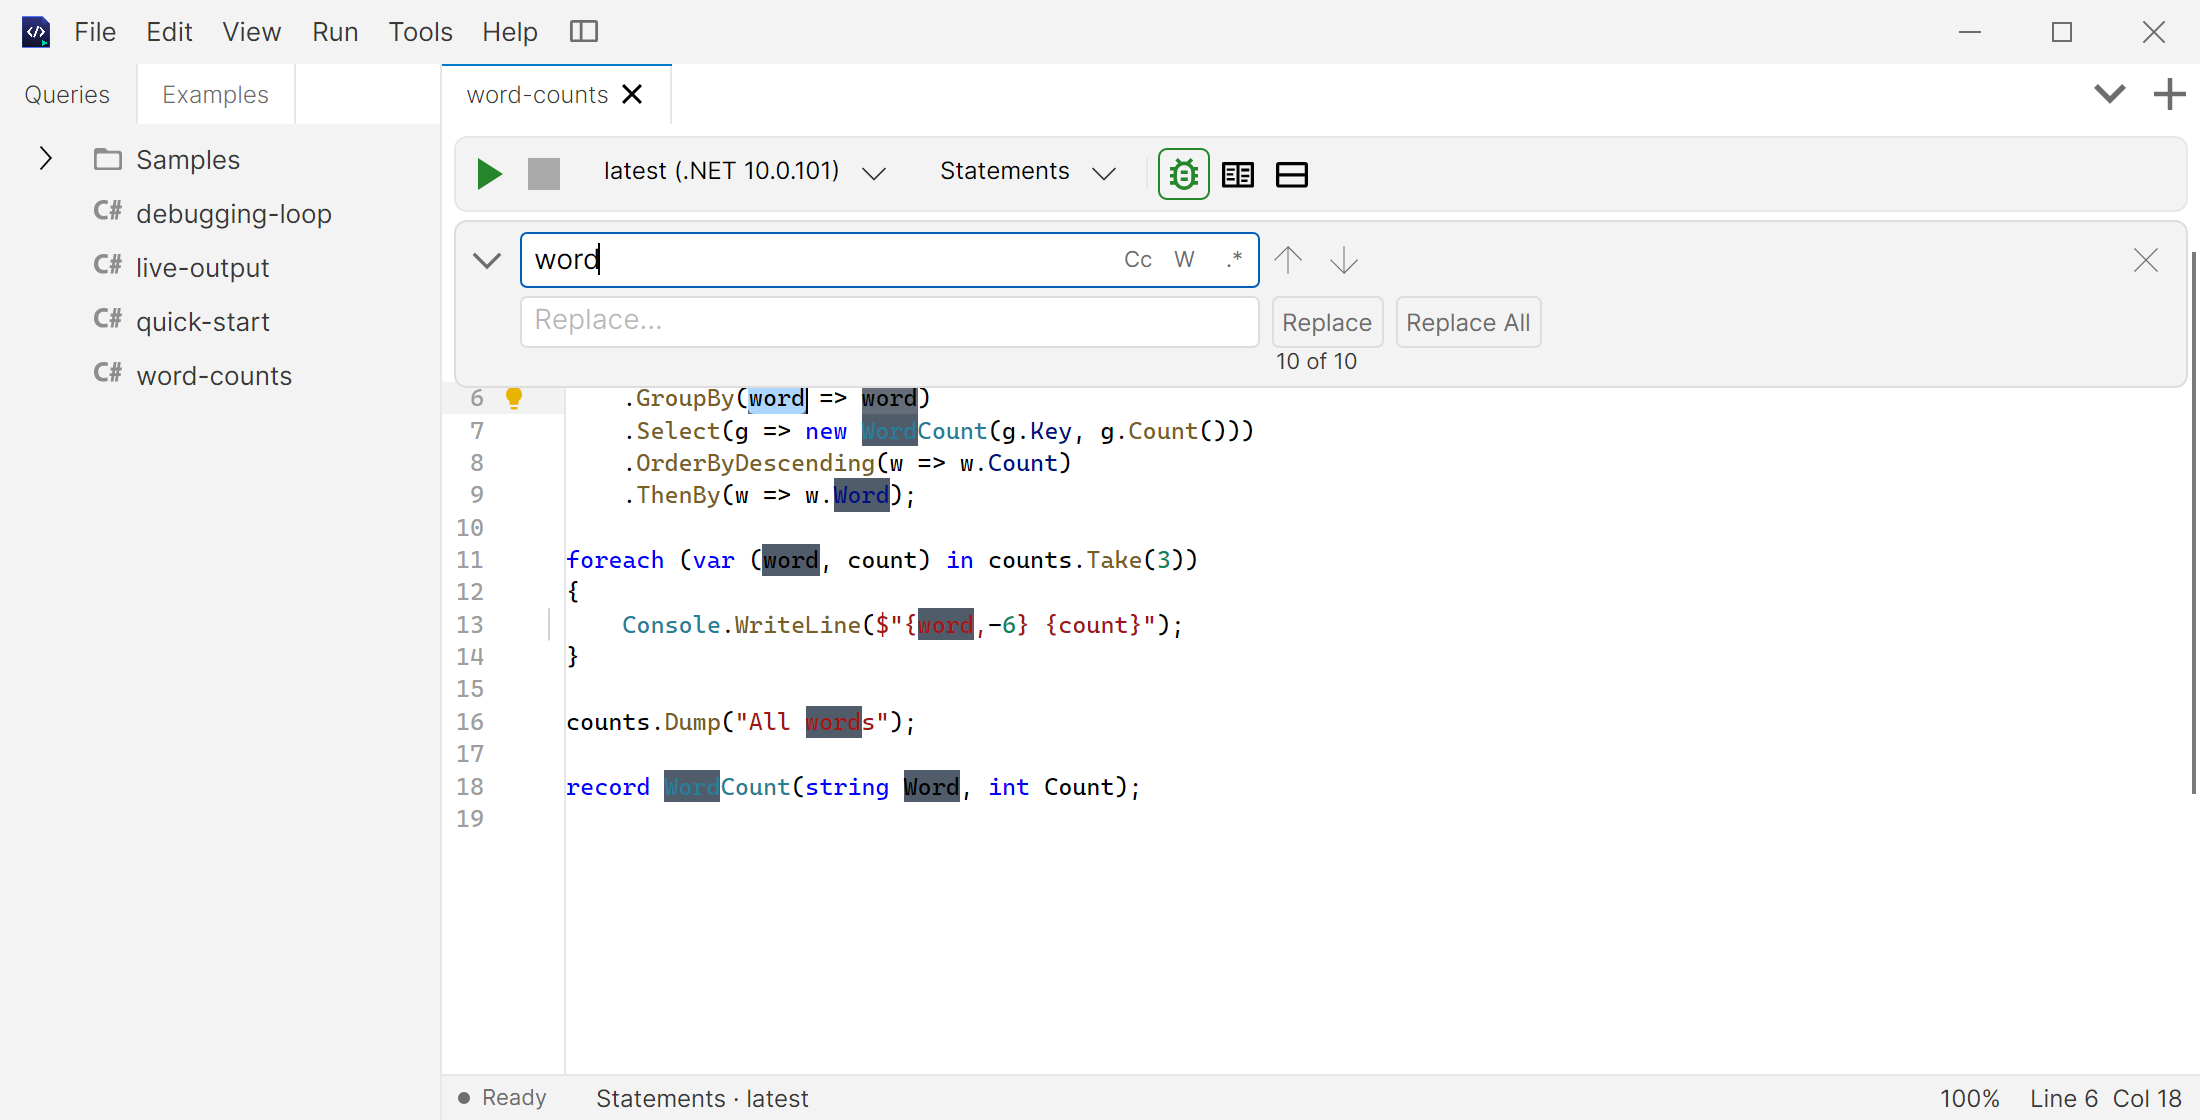
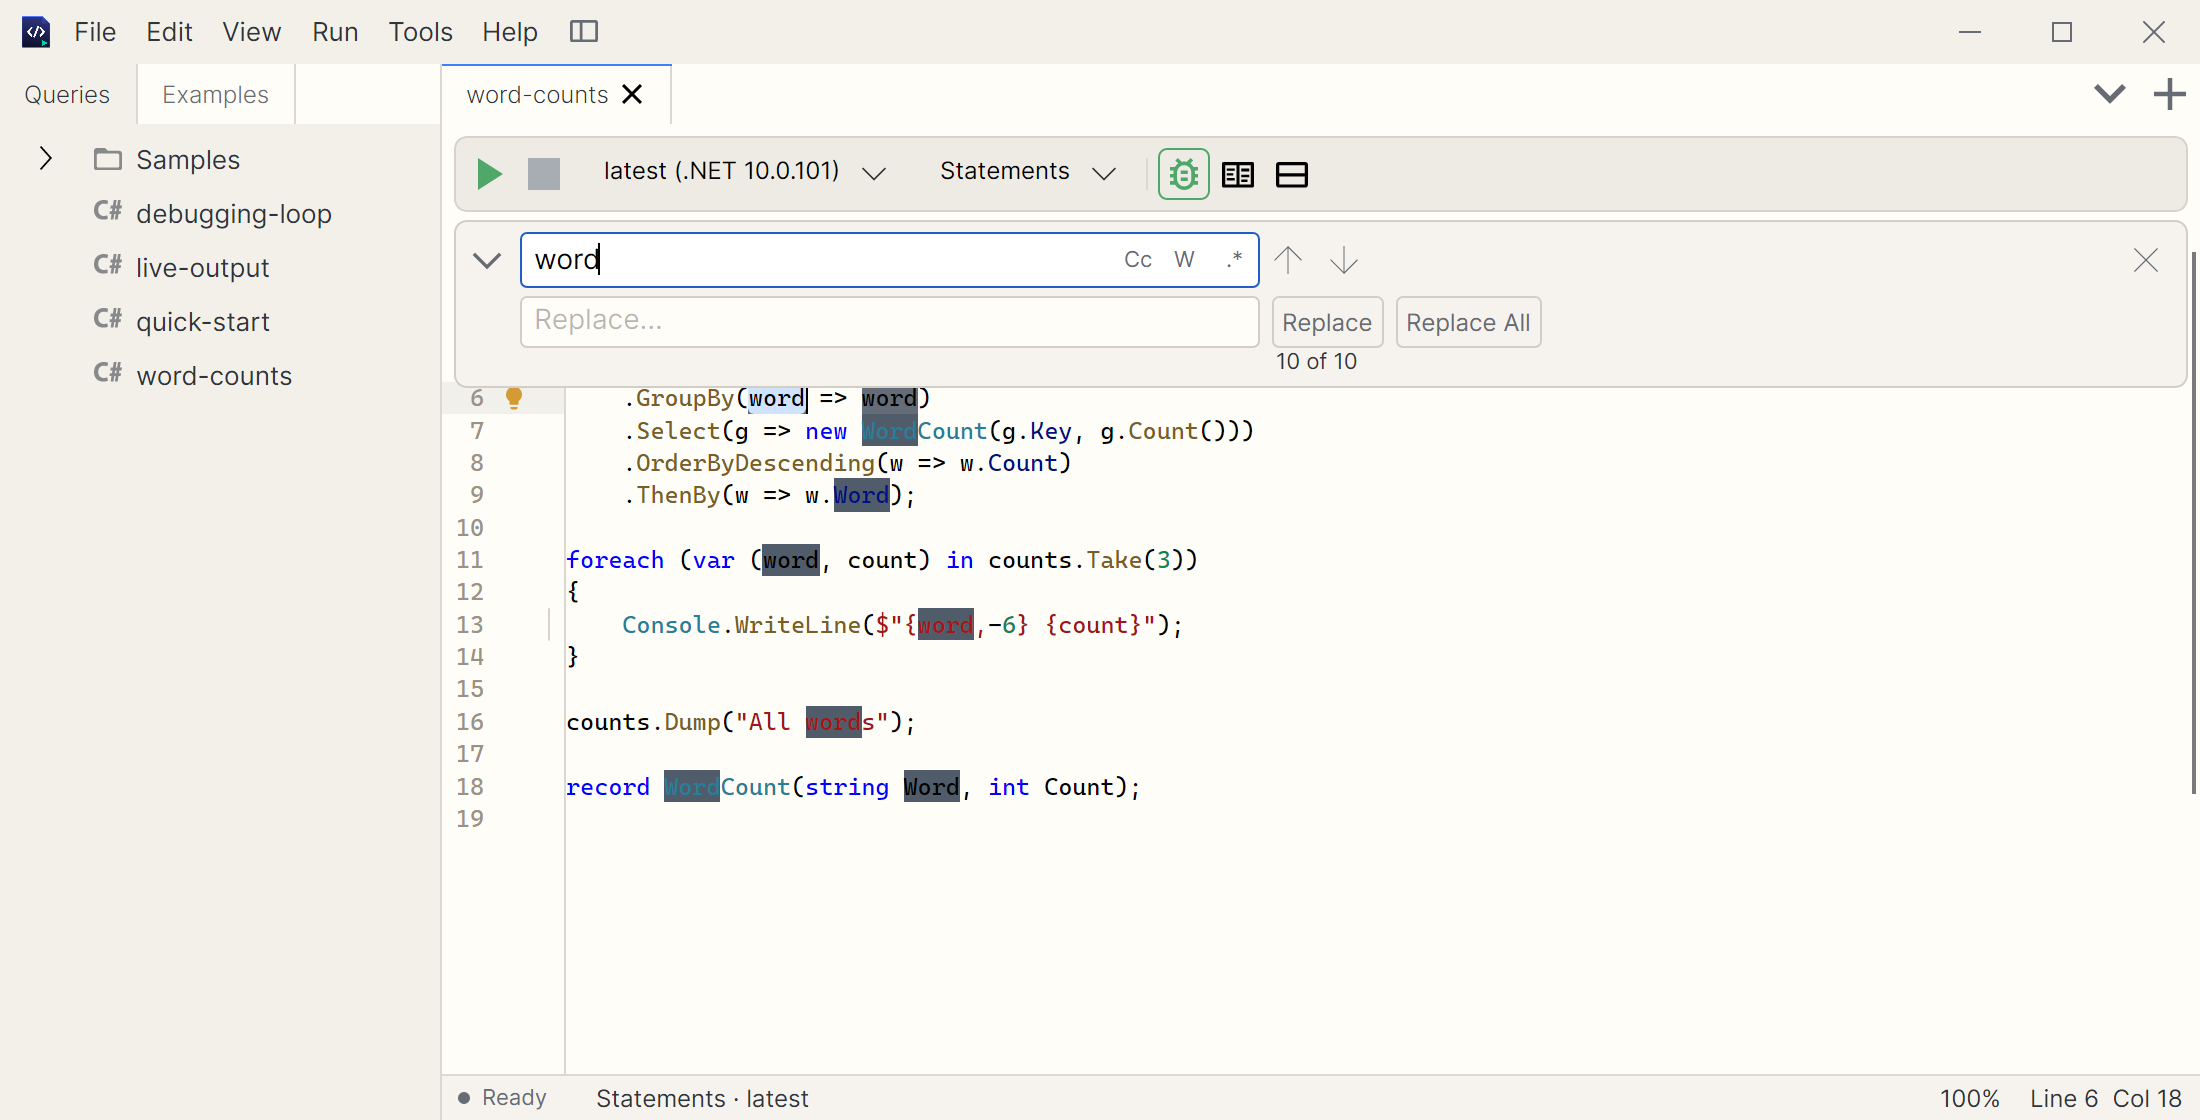
Show RunPad's own themes in the screenshots
Render every screenshot with the RunPad Midnight and RunPad Warm Light
interface themes instead of the VS Code ones, keeping the editor's default
Dark+ and Light+ colors.

Changed region(s): [[0.2473, 0.125, 0.5564, 0.2188], [0.34, 0.3438, 0.3709, 0.375], [0.2164, 0.3438, 0.2473, 0.375]]

diff --git a/scripts/screenshots/Scenarios.cs b/scripts/screenshots/Scenarios.cs
@@ -32,6 +32,9 @@ public sealed class Ctx : IAsyncDisposable
         Directory.CreateDirectory(root);
         var prefs = new MemoryPrefs();
         prefs.Appearance.Mode = Program.Light ? ThemeMode.Light : ThemeMode.Dark;
+        // RunPad's own interface themes; the editor keeps its default Dark+ / Light+ colors.
+        prefs.Appearance.DarkInterfaceTheme = "RunPad Midnight";
+        prefs.Appearance.LightInterfaceTheme = "RunPad Warm Light";
         prefs.Appearance.RestoreUnsavedTabs = false;
         // The debugger the first-run setup installs on Windows, unless RUNPAD_NETCOREDBG names another.
         prefs.Debugger.DebuggerPath = Environment.GetEnvironmentVariable("RUNPAD_NETCOREDBG") is { Length: > 0 } dbg ? dbg

diff --git a/docs/GITHUB-PAGES.md b/docs/GITHUB-PAGES.md
@@ -141,7 +141,8 @@ or a feature changes, adjust its scenario in `Scenarios.cs` and the image's alt 
 | `dependencies` | `dependencies` | Packages and references | Online search for Humanizer, Humanizer.Core selected; the local cache filtered to Humanizer |
 | `explorer` | `assembly-explorer` | Assembly Explorer | System.Linq.dll searched for `Enumerable.Where`, the first result decompiled |
 
-The window chrome is RunPad's own Windows title bar; dialogs are captured without the
+The interface uses RunPad's own themes, RunPad Midnight and RunPad Warm Light, with the
+editor's default Dark+ and Light+ colors. The window chrome is RunPad's own Windows title bar; dialogs are captured without the
 system's title bar. Numbers are formatted with the invariant culture. The GitHub and
 Obsidian screenshots (`github-rpad-preview.png`, `obsidian*.png`) show other programs and
 are captured by hand.
